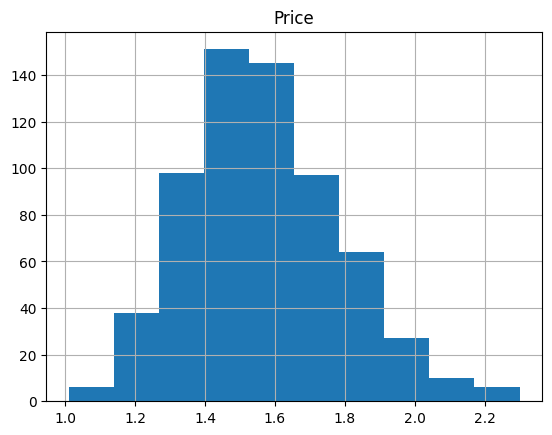
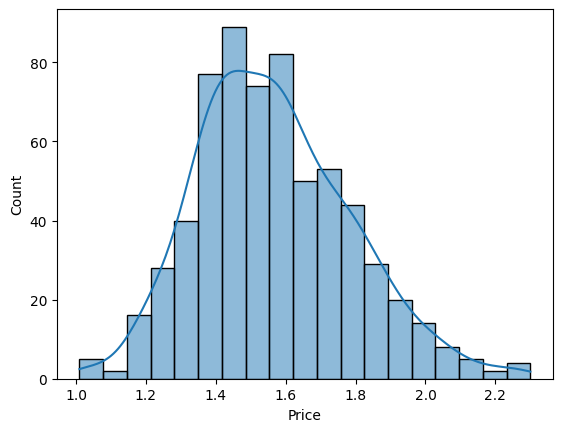
chore: update resource img

diff --git a/README.md b/README.md
@@ -39,7 +39,7 @@ And, second, run the script
 
 ## Analysis
 
-The presence of a few outliers skewed the distribution of price values. Binning by intervals of 500, we get:
+The presence of outliers skewed the distribution of price values. Binning by intervals of 500, we have the following count:
 
 |bin | count |
 |---------------|------|
@@ -52,7 +52,7 @@ The presence of a few outliers skewed the distribution of price values. Binning 
 |(3001.0, 3501.0]| 1 |
  
 
-Once the outlier is removed, we have the following bins.
+Once the outlier is removed, we have check the bins once more, this time with a smaller interval of 32.
 
 |bin | count |
 |---------------|------|
@@ -64,7 +64,7 @@ Once the outlier is removed, we have the following bins.
 |(161.0, 193.0] |     0
 |(193.0, 225.0]  |    1
 
-Once we remove it, we we have following distribution of price values that resemble a normal distribution.
+When the second outlier is removed, we have the following distribution of price values that resemble a normal distribution.
 
 ![](resources/normal.png)
 
@@ -74,7 +74,6 @@ There wasn't much correlation between numeric features (i.e. Total Volume, Total
 ![](resources/pricetotalboxcorr.png)
 
 But we do observe fluctuations usually occur for lower total volume values (other numeric values such as total boxes show a similar behavior)
-
 
 Moreover, we examine any difference in means from region to region and province to province. One way to visualize the significance of t-tests is to plot boxplots as below.
 
